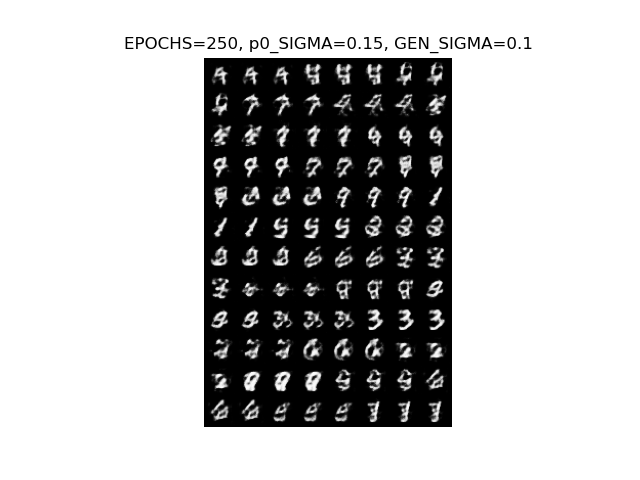
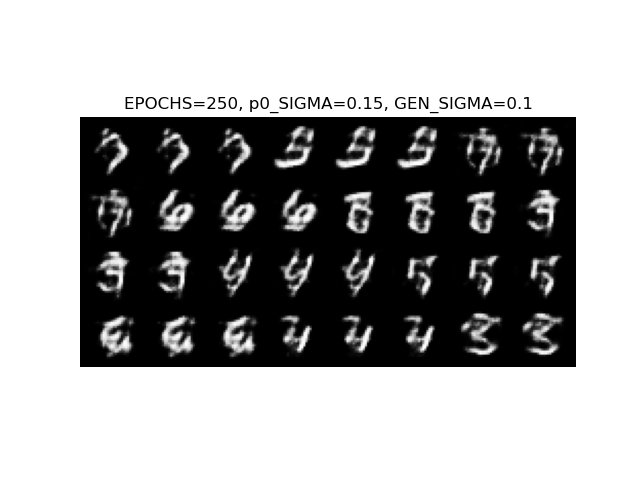
can now choose number of images in image grid

diff --git a/src/pipeline/sample.py b/src/pipeline/sample.py
@@ -25,11 +25,11 @@ def save_one_sample(final_data, hyperparams):
 
     plt.savefig('img/Final Vanilla Pang Sample.png')
 
-def save_final_grid(final_data, hyperparams):
+def save_final_grid(final_data, hyperparams, num_images=-1):
     """
     Function to save the final grid of samples from training.
     """
-    img_grid = torchvision.utils.make_grid(final_data, normalize=True)
+    img_grid = torchvision.utils.make_grid(final_data[:num_images], normalize=True)
     plt.imshow(img_grid.permute(1, 2, 0).cpu().detach().numpy(), cmap='gray')
     plt.axis('off')
 

diff --git a/main.py b/main.py
@@ -135,7 +135,7 @@ writer.close()
 
 # Plot the final generated image/grid
 save_one_sample(generated_data, hyperparams=[NUM_EPOCHS, p0_SIGMA, GENERATOR_SIGMA])
-save_final_grid(generated_data, hyperparams=[NUM_EPOCHS, p0_SIGMA, GENERATOR_SIGMA])
+save_final_grid(generated_data, hyperparams=[NUM_EPOCHS, p0_SIGMA, GENERATOR_SIGMA], num_images=BATCH_SIZE)
 
 # Diagnostics
 plot_hist(Sampler, EBMnet, GENnet, x)
